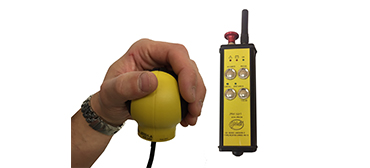
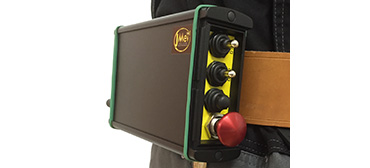
index FR radio du mois Novembre

diff --git a/html/fr/index.php b/html/fr/index.php
@@ -98,7 +98,7 @@
                 </div>
                 <div class="span4">
                     <h2>Radios personnalisées!</h2>
-                    <a href="<?php echo Site::relativeUrl('realisations');?>" style="text-align: left"><img src="../img/home/month-radio.jpg?v=8" alt="Radiocommande Industrielle de sécurité"></a>
+                    <a href="<?php echo Site::relativeUrl('realisations');?>" style="text-align: left"><img src="../img/home/month-radio.jpg?v=9" alt="Radiocommande Industrielle de sécurité"></a>
                </div>
                 <div class="span4">
                   <h2>Nos points forts</h2>
